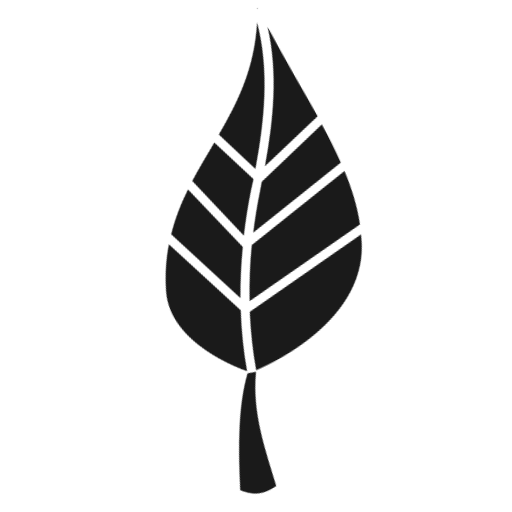
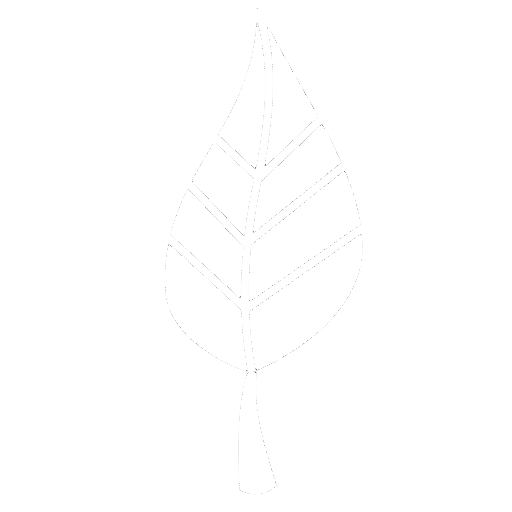
leafWave animation
add some details in animation

Changed region(s): [[0.3125, 0.0312, 0.7188, 0.9688]]

diff --git a/css/index.css b/css/index.css
@@ -26,6 +26,7 @@ body {
   content: "365일 생각하는 나무 기도하는 잎사귀";
   position: absolute;
   color: aliceblue;
+  height: 100%;
   overflow: hidden;
 
   animation: typing 2s steps(20);
@@ -41,29 +42,42 @@ body {
   content: "영혼의 정원";
   position: absolute;
   color: aliceblue;
+  height: 100%;
   overflow: hidden;
   opacity: 0;
   animation: fadeIn 1s ease-in-out forwards;
-  animation-delay: 2s;
+  animation-delay: 2.3s;
 }
 .homepage-image__main-img {
   display: block;
   border: none;
   border-bottom: 3px solid var(--myblack);
   border-right: 3px solid var(--myblack);
-  border-radius: 2px;
-
+  border-radius: 3px;
   width: 200px;
   height: 200px;
   margin: 0px auto;
+
+  opacity: 0;
+  animation: fadeIn 1.5s ease-in-out forwards;
+  animation-delay: 3.6s;
 }
 
 .homepage-image__leaf {
-  padding-top: 200px;
+  position: relative;
+  top: 160px;
   display: block;
   width: 50px;
   height: 40px;
   margin: 0px auto;
+
+  opacity: 0;
+  animation: fadeIn 1.5s ease-in-out forwards;
+  animation-delay: 4.2s;
+}
+.homepage-image__leaf:hover {
+  opacity: 1;
+  animation: leafWave 3s ease-out infinite;
 }
 
 .section {

diff --git a/css/animations.css b/css/animations.css
@@ -21,3 +21,26 @@
     opacity: 1;
   }
 }
+
+@keyframes leafWave {
+  0% {
+  }
+  40% {
+    transform: rotateZ(30deg);
+  }
+  45% {
+    transform: rotateZ(21deg);
+  }
+  50% {
+    transform: rotateZ(15deg);
+  }
+  55% {
+    transform: rotateZ(21deg);
+  }
+  60% {
+    transform: rotateZ(30deg);
+  }
+  100% {
+    transform: rotateZ(0deg);
+  }
+}
